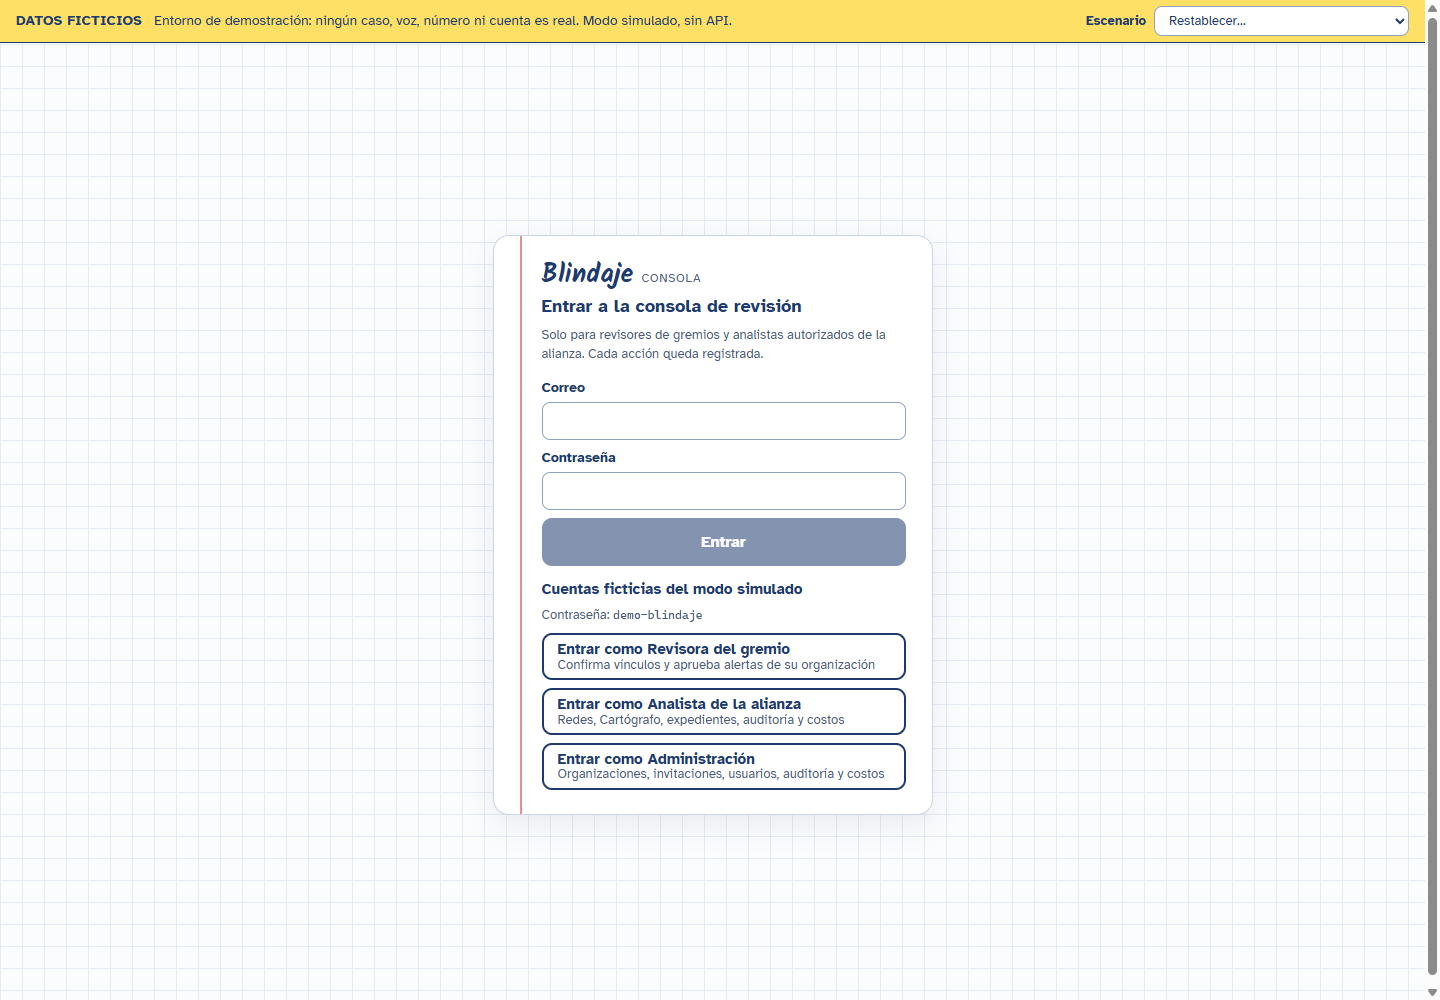
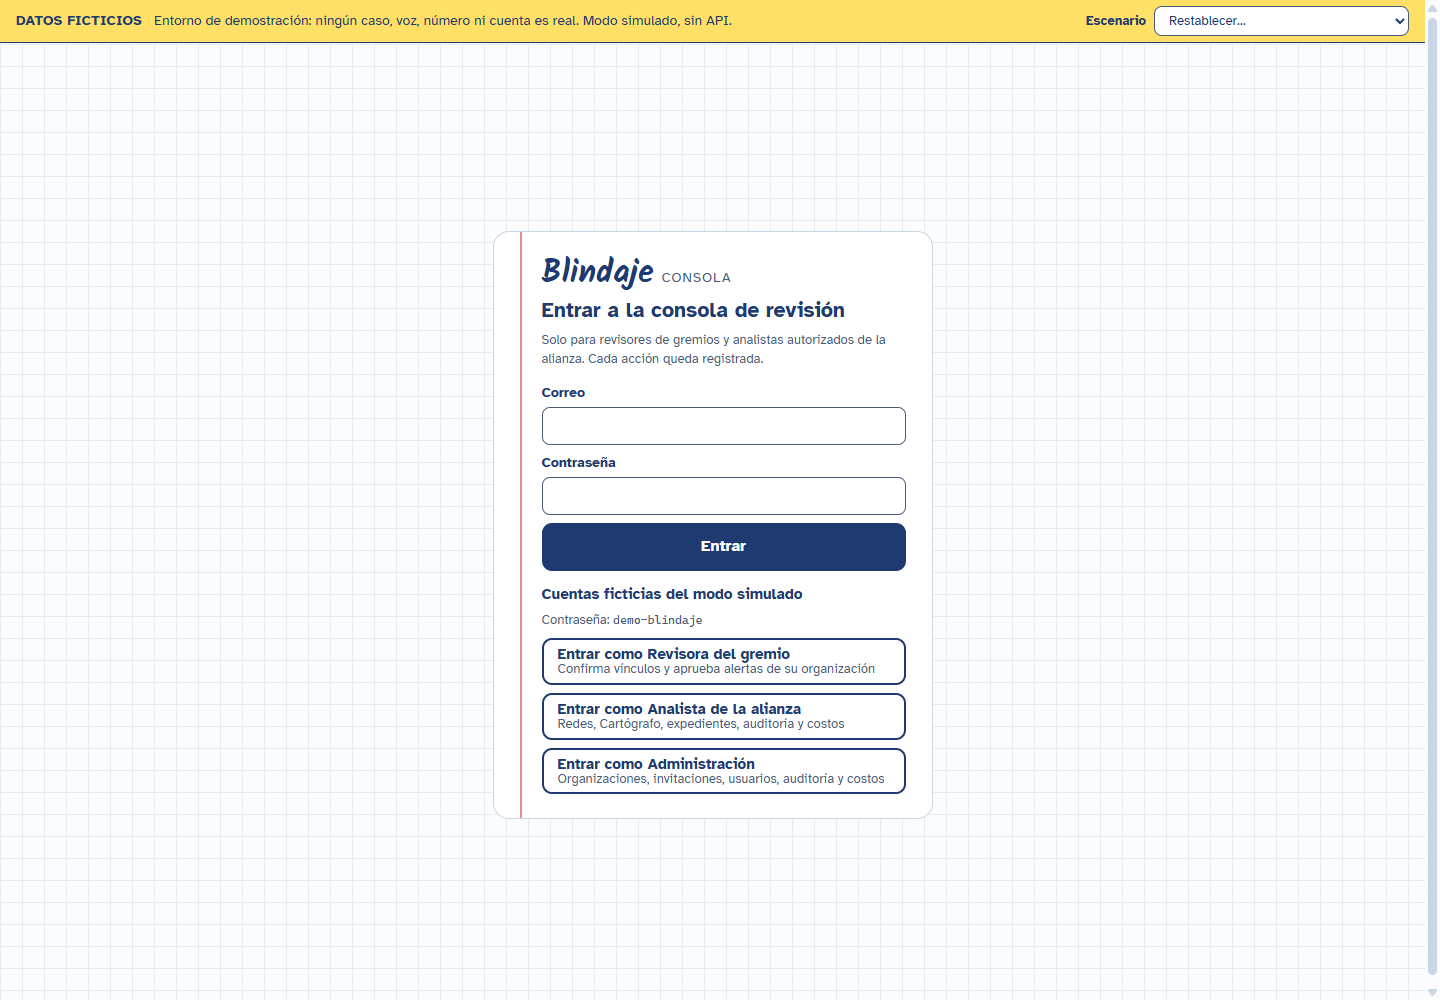
console: devlog del frente y capturas finales contra la URL desplegada

Changed region(s): [[0.375, 0.434, 0.6562, 0.806], [0.9688, 0.0, 1.0, 0.992], [0.375, 0.248, 0.625, 0.403]]

diff --git a/docs/devlog/console.md b/docs/devlog/console.md
@@ -1,0 +1,115 @@
+# Devlog: consola (`apps/console`)
+
+Horas en hora de Lima (UTC−5). Las entradas más nuevas van abajo.
+
+## 2026-10-28 01:10 · Base y decisiones
+
+- React 19 + Vite 8 + TypeScript estricto + react-router 8 (`BrowserRouter`, rutas anidadas y
+  `:tab?`). Cytoscape.js para el grafo. Atkinson Hyperlegible (400 y 700) y Kalam (700)
+  autoalojadas con `@fontsource` (OFL), solo el subconjunto latino.
+- Una interfaz `BlindajeApi` con dos implementaciones: `HttpApi` (docs/API.md) y `MockApi` (modo
+  simulado). `VITE_MOCK=1` o `--mode mock` fuerza el simulado; sin `VITE_API_URL` también arranca
+  simulado (nunca adivina una API). La marca "Datos ficticios" sale si `/v1/health` trae un `env`
+  con "demo" o si el modo es simulado.
+- Tipos: todo sale de `@blindaje/shared`. Los esquemas que no exportan su tipo (`ExpedienteView`,
+  `HypothesisView`, `AuditVerifyResponse`, `AudioFragment`, …) se infieren con
+  `ReturnType<typeof S.X["parse"]>`, sin depender de zod en la consola. `HttpApi` valida cada
+  respuesta con el esquema de shared y avisa en la consola del navegador (`[contrato]`) si no cumple,
+  sin romper la vista.
+- Cliente HTTP: access token solo en memoria; refresh token en `sessionStorage` (sobrevive a recargar
+  la pestaña, no a cerrarla). Ante un 401 renueva una sola vez (un refresh compartido entre peticiones
+  concurrentes) y reintenta; si el refresh falla limpia la sesión y vuelve al login con aviso. Renueva
+  por adelantado si el token vence en menos de 5 s o si no hay access token (recarga). Nunca manda
+  `Authorization` a un origen distinto del de `VITE_API_URL`.
+- Medios protegidos: `fetch` con `Authorization` → `Blob` → object URL (se revoca al desmontar). El
+  audio se descarga solo cuando el revisor lo pide (cada acceso queda en la auditoría). Si la API
+  devuelve el audio sin recortar, el reproductor salta al inicio del rango y se detiene al final.
+- Citas clicables: `parseCitations` reconoce el `CITATION_RE` de shared y además la forma
+  `ID-…488`. Los identificadores cifrados se muestran solo como "…488" (con el tipo: "Yape …488"),
+  también en el grafo. Cada cita abre un panel lateral (`<dialog>` modal: foco atrapado, Escape cierra
+  y devuelve el foco) con la evidencia (SHA-256, fragmentos de audio, imagen redactada), la ficha, la
+  huella, el identificador, el vínculo o la red.
+- Grafo: cada tipo de nodo tiene forma y color propios (caso: rectángulo tinta; voz: círculo
+  amarillo; identificador: rombo menta; frase: etiqueta rosada; imagen: hexágono gris azulado),
+  leyenda HTML con las mismas formas, lista de elementos navegable con teclado que selecciona en el
+  grafo, y línea de tiempo con carriles por caso. Disposición determinista: casos en fila por fecha y
+  cada tipo de señal en su carril, entre los casos que la comparten.
+- Modo simulado: casos A, B y C de la sección 3 (A–B por voz con números distintos, B–C por la misma
+  cuenta de Yape "…488"), más D–E (red previa por placa) y F (candidato débil con contradicciones).
+  Al confirmar VIN-1 y VIN-2 aparece la red R-001 de tres casos. Auditoría con cadena SHA-256 real
+  (botón "Simular una alteración" para mostrar que la verificación la detecta), PDF del expediente
+  generado en el navegador con su SHA-256 real, audios sintéticos (tonos, una frecuencia por huella)
+  e imágenes vectoriales neutras. El estado vive en `sessionStorage` y se puede restablecer a
+  "Inicio" o "Red armada" desde la bandera del demo.
+
+## 2026-10-28 01:55 · Verificación en Chrome y despliegue
+
+- Recorrido automático en Chrome headless (CDP) con 16 pasos: login, cola, audio, citas, confirmar
+  VIN-1 y VIN-2, grafo, Cartógrafo, perfil inválido, expediente con SHA-256 verificado al descargar,
+  Vigía, auditoría íntegra y rota, costos, admin y permisos de la revisora. Cero errores y cero avisos
+  en la consola del navegador, también contra la URL desplegada con su CSP real. Capturas en
+  `apps/console/screenshots/`.
+- Hallazgo corregido: tras "Cerrar sesión", la siguiente persona entraba a la página de la anterior.
+- Hallazgo del entorno: `vite preview` no ve los assets nuevos si se recompila con el servidor
+  corriendo; hay que reiniciarlo.
+- Desplegada con Workers Static Assets (`blindaje-console`, SPA fallback, `_headers` con CSP que solo
+  permite conectarse al origen de `VITE_API_URL`):
+  **https://blindaje-console.vigiaperu.workers.dev** (modo simulado).
+- Bundle: vistas con carga diferida; Cytoscape (unos 145 kB gzip) solo se descarga al abrir una red.
+
+## 2026-10-28 02:15 · Alineación con la API real
+
+Leído `services/api/src/routes/console.ts` (sin tocarlo):
+
+- `GET /links?status=` acepta un solo estado o `todos`: la pestaña "Revisados" pide `todos` y
+  filtra `confirmado` y `descartado` en la consola.
+- `POST /users` exige contraseña de 12 caracteres o más; `POST /orgs`, nombre de 2 o más.
+- `GET /orgs` trae `devices` y `users`: se muestran.
+- Nombres de acción de la auditoría (`link.decision`, `evidence.media`, `agent.cartografo.run`, …)
+  con su lectura en español.
+- Nodos de la red: `caso` trae `data.case_id` y `data.code` (sin `primer_contacto`): los casos se
+  ordenan por su primer evento de la línea de tiempo y los casos de cada señal salen de las aristas.
+- `GET /cases/:id` se audita (`case.view`): la vista de red ya no carga todos los casos de entrada;
+  pide un caso solo cuando se abre una cita de su evidencia o su ficha.
+
+## 2026-10-28 02:35 · Pasada de diseño con Impeccable y guías de interfaz
+
+`impeccable context` cargó PRODUCT.md y DESIGN.md (sistema Cuaderno, modo Operate). Cambios:
+
+- **El rojo es solo la línea de margen**: errores, citas inexistentes y estados inválidos van en
+  resaltador rosado con texto en tinta; toda acción en tinta (se quitó el verde de "Confirmar").
+- Sin sombras (drawer, login, barra de decisión) ni bordes laterales de color; señales, hechos,
+  hipótesis y fragmentos como renglones en vez de cajas dentro de cajas.
+- Kalam solo en la marca, las frases firma y el título de "Avisos del proveedor"; las
+  transcripciones pasaron a Atkinson.
+- Selección del grafo: trazo de tinta con halo de resaltador. Imagen: gris azulado de la paleta.
+- Guías de interfaz: confirmación en línea para descartar un vínculo o rechazar una alerta, filtros de
+  la cola y de alertas en la URL, login que valida al enviar y lleva el foco al campo, `spellcheck`
+  y `autocomplete` apagados donde corresponde, `scroll-padding` para que la bandera fija y la barra
+  de decisión no tapen el foco, selección, caret, scrollbar y `accent-color` con la paleta,
+  `touch-action: manipulation`, `overscroll-behavior` en el panel.
+- Accesibilidad: el borde de los campos pasó a Lápiz (antes `#8ea2c2`, menos de 3:1 contra blanco).
+  Verificado con teclado: orden de foco, foco visible, Enter abre una cita y Escape devuelve el foco.
+- `impeccable detect` sobre `apps/console/src`: 0 antipatrones; queda un aviso por el papel
+  cuadriculado, que es el mundo Cuaderno fijado por el brief.
+
+### Cómo correrla
+
+- Simulado: `pnpm --filter @blindaje/console dev` (sin variables) y entrar con las cuentas ficticias
+  de la pantalla de login (contraseña `demo-blindaje`).
+- API real: `VITE_API_URL=https://<api> pnpm --filter @blindaje/console dev`. La API debe permitir
+  el origen de la consola en CORS (`ALLOWED_ORIGINS`) con `authorization` y `content-type`.
+- Desplegar: `pnpm --filter @blindaje/console deploy:mock` o
+  `VITE_API_URL=https://<api> pnpm --filter @blindaje/console deploy`.
+
+### Pendiente y propuestas de contrato
+
+- `AlertView` sin nombre de organización: el analista ve el id (`org-…`). Propuesta: `org_name`.
+- No hay `GET` para listar expedientes: la consola recuerda en la pestaña los que generó. Propuesta:
+  `GET /v1/console/networks/:id/expedientes`.
+- `OrgView`, `UserView` y sus cuerpos de creación no están en `packages/shared`: hoy son tipos
+  locales en `apps/console/src/api/types.ts`. Propuesta: moverlos a shared.
+- Propuesta para shared: exportar los tipos de `ExpedienteView`, `HypothesisView`,
+  `AuditVerifyResponse`, `AudioFragment`, `GraphNode` y `GraphEdge`.
+- Nodos `voz` e `imagen` sin `data.evidencia`: el panel del grafo no puede citar su evidencia.
+- `CostsResponse.pct` se interpreta en porcentaje (0 a 100).
